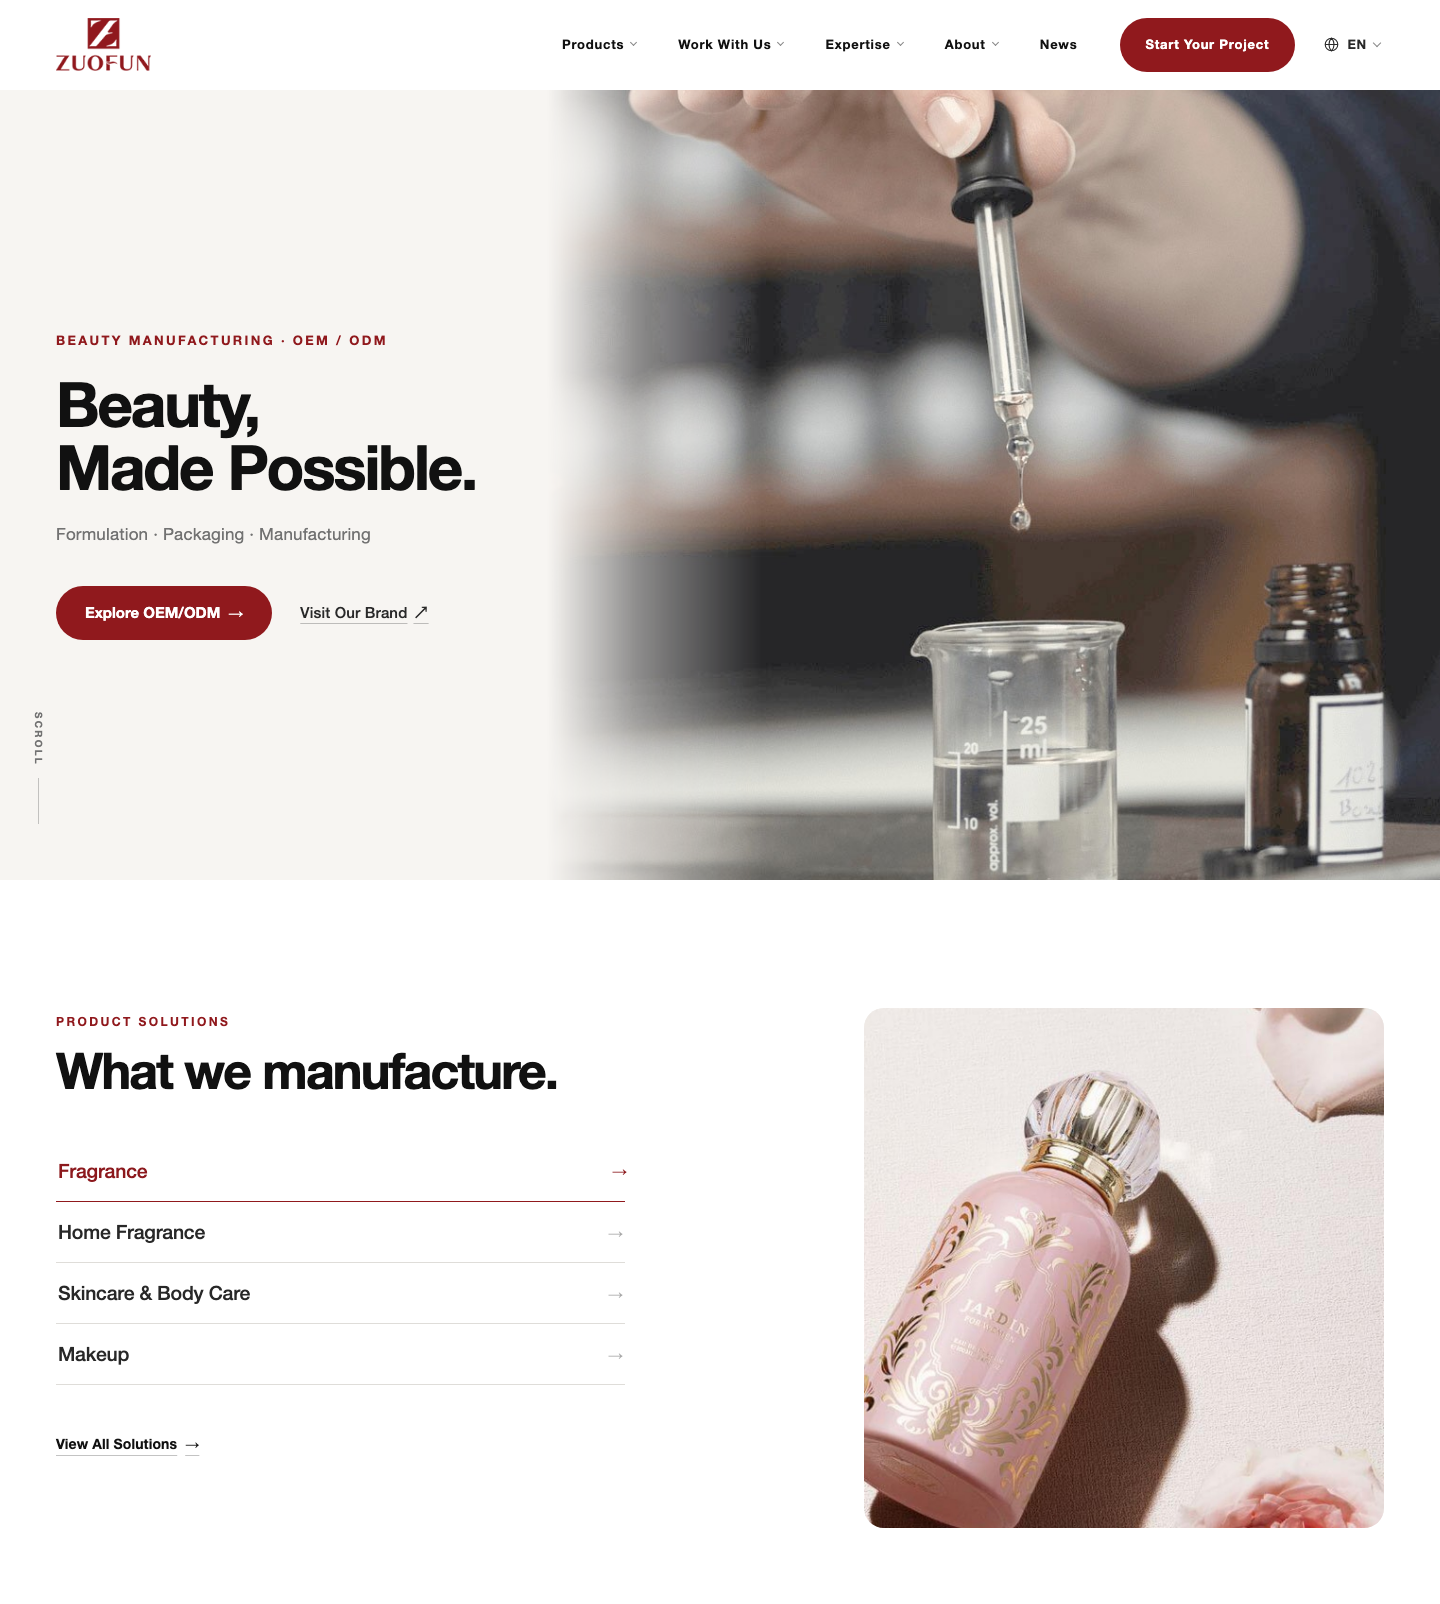
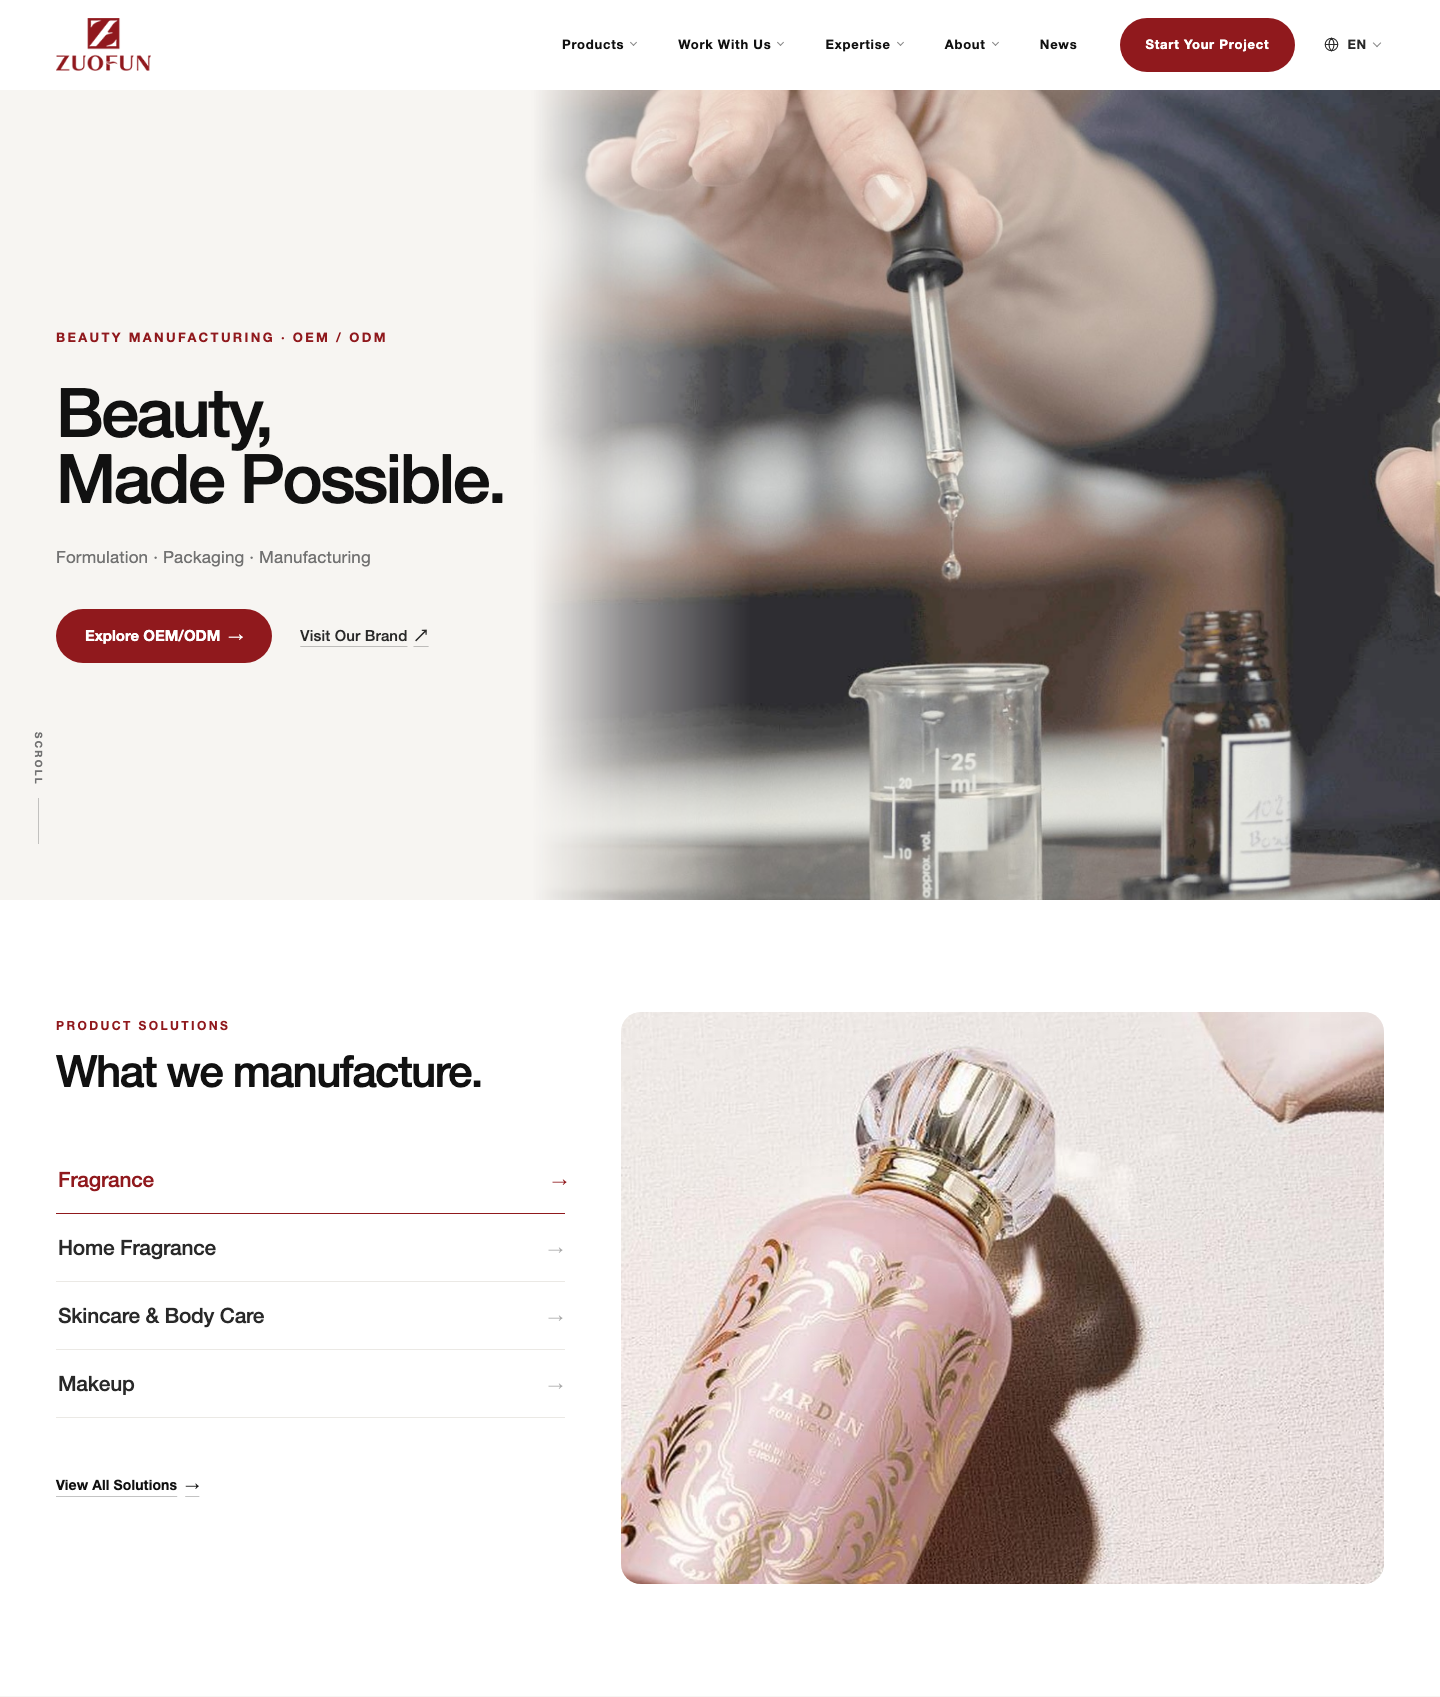
Rebalance the two-screen proportions toward the reference direction.
The Hero now fills the viewport below the header instead of overlapping it
behind a negative margin, which also removes the padding that compensated for
it. The image column widens to 63% and the crop anchors so the dropper sits
around 65% of the page rather than on the centre axis, leaving the left column
as quiet negative space. The headline drops from 700 to 500 weight and the
copy block gains vertical air between each step.

Product Solutions moves from a capped square to a full-width 4:3 stage so the
image, not the list, carries the section. Each category gets its own
object-position because the sources are square and the frame is not.

The hero photograph is regraded from the untouched original rather than
stacked on the previous pass, so the shadows open up without compounding.

Interaction logic, sticky behaviour and the mobile layout are untouched.

diff --git a/home-preview/assets/css/style.css b/home-preview/assets/css/style.css
@@ -411,12 +411,10 @@ h1, h2, h3, .serif {
   position: relative;
   z-index: 1;
   display: grid;
-  grid-template-columns: minmax(0, 44fr) minmax(0, 56fr);
+  grid-template-columns: minmax(0, 37fr) minmax(0, 63fr);
   align-items: center;
   width: 100%;
-  min-height: min(92svh, 880px);
-  margin-top: calc(var(--header-h) * -1);
-  padding-top: var(--header-h);
+  min-height: calc(100vh - var(--header-h));
   background: var(--warm);
   overflow: hidden;
   font-family: "Helvetica Neue", Helvetica, Arial, sans-serif;
@@ -427,7 +425,7 @@ h1, h2, h3, .serif {
   top: -70px;
   bottom: -70px;
   right: 0;
-  left: 38%;
+  left: 37%;
   pointer-events: none;
   will-change: transform;
 }
@@ -437,7 +435,8 @@ h1, h2, h3, .serif {
   height: 100%;
   max-width: none;
   object-fit: cover;
-  object-position: 32% 48%;
+  /* Anchored left so the dropper lands right of the page axis, not on it */
+  object-position: 38% 58%;
   /* Soft feather instead of a hard column edge — no white fog over the photo */
   -webkit-mask-image: linear-gradient(90deg, transparent 0, rgba(0, 0, 0, .5) 10%, #000 24%);
   mask-image: linear-gradient(90deg, transparent 0, rgba(0, 0, 0, .5) 10%, #000 24%);
@@ -451,21 +450,21 @@ h1, h2, h3, .serif {
   grid-column: 1;
   display: flex;
   flex-direction: column;
-  padding: 40px 32px 40px max(var(--page-pad), calc((100vw - var(--max)) / 2));
+  padding: 48px 32px 48px max(var(--page-pad), calc((100vw - var(--max)) / 2));
 }
 .hero .eyebrow {
-  margin-bottom: 20px;
+  margin-bottom: 30px;
   color: var(--brand-red);
   font-size: 13px;
   font-weight: 700;
   letter-spacing: .18em;
 }
 .hero h1 {
-  margin: 0 0 24px;
+  margin: 0 0 34px;
   font-family: "Helvetica Neue", Helvetica, Arial, sans-serif;
-  font-weight: 700;
-  font-size: clamp(44px, 4.3vw, 62px);
-  line-height: 1.02;
+  font-weight: 500;
+  font-size: clamp(52px, 4.7vw, 70px);
+  line-height: .98;
   letter-spacing: -.035em;
   white-space: nowrap;
   color: var(--black);
@@ -591,27 +590,30 @@ h1, h2, h3, .serif {
 
 /* Product Solutions — category list drives one shared visual */
 .solutions {
-  padding: 128px 0;
+  padding: 112px 0;
   background: var(--white);
   font-family: "Helvetica Neue", Helvetica, Arial, sans-serif;
 }
 .solutions-layout {
   display: grid;
-  grid-template-columns: minmax(0, 45fr) minmax(0, 55fr);
-  gap: 64px;
+  grid-template-columns: minmax(0, 40fr) minmax(0, 60fr);
+  gap: 56px;
   align-items: start;
 }
-.solutions-copy { padding-top: 4px; }
+.solutions-copy {
+  max-width: 510px;
+  padding-top: 4px;
+}
 .solutions .eyebrow {
   font-size: 12px;
   font-weight: 700;
   letter-spacing: .2em;
 }
 .solutions h2 {
-  margin: 0 0 44px;
+  margin: 0 0 52px;
   font-family: "Helvetica Neue", Helvetica, Arial, sans-serif;
-  font-size: clamp(38px, 3.6vw, 50px);
-  font-weight: 600;
+  font-size: clamp(36px, 3.2vw, 44px);
+  font-weight: 500;
   line-height: 1.06;
   letter-spacing: -.035em;
 }
@@ -625,12 +627,12 @@ h1, h2, h3, .serif {
   align-items: center;
   justify-content: space-between;
   gap: 20px;
-  min-height: 56px;
-  padding: 14px 2px;
-  border-bottom: 1px solid var(--line);
+  min-height: 68px;
+  padding: 16px 2px;
+  border-bottom: 1px solid #ebe9e5;
   color: var(--dark);
   text-decoration: none;
-  font-size: clamp(17px, 1.35vw, 20px);
+  font-size: clamp(18px, 1.45vw, 21px);
   font-weight: 500;
   letter-spacing: -.01em;
   transition: color .35s var(--ease), border-color .35s var(--ease);
@@ -658,7 +660,7 @@ h1, h2, h3, .serif {
   align-items: center;
   gap: 8px;
   min-height: 44px;
-  margin-top: 36px;
+  margin-top: 44px;
   color: var(--black);
   font-size: 14px;
   font-weight: 600;
@@ -685,9 +687,8 @@ h1, h2, h3, .serif {
 }
 .solution-stage {
   position: relative;
-  aspect-ratio: 1 / 1;
-  max-width: 520px;
-  margin-left: auto;
+  width: 100%;
+  aspect-ratio: 4 / 3;
   overflow: hidden;
   border-radius: 20px;
   background: var(--warm);
@@ -702,6 +703,11 @@ h1, h2, h3, .serif {
   transform: scale(1.02);
   transition: opacity .45s var(--ease), transform .45s var(--ease);
 }
+/* Square sources in a 4:3 frame — each crop is anchored on its own subject */
+.solution-image[data-solution="fragrance"] { object-position: 50% 30%; }
+.solution-image[data-solution="home"] { object-position: 50% 8%; }
+.solution-image[data-solution="skincare"] { object-position: 42% 44%; }
+.solution-image[data-solution="makeup"] { object-position: 50% 52%; }
 .solution-image.is-active {
   opacity: 1;
   transform: scale(1);
@@ -1155,8 +1161,8 @@ h1, h2, h3, .serif {
   .hero { grid-template-columns: minmax(0, 47fr) minmax(0, 53fr); }
   .hero-copy { padding: 32px 24px 32px max(32px, calc((100vw - var(--max)) / 2)); }
   .hero h1 { font-size: clamp(46px, 5.6vw, 58px); }
-  .hero-visual { left: 44%; }
-  .hero-photo { object-position: 44% 46%; }
+  .hero-visual { left: 43%; }
+  .hero-photo { object-position: 38% 56%; }
   .hero-scroll { left: 12px; bottom: 32px; }
   .section { padding: 96px 0; }
   .section-head h2 { font-size: clamp(36px, 4vw, 48px); }
@@ -1288,7 +1294,7 @@ h1, h2, h3, .serif {
     width: min(var(--max), calc(100% - 32px));
     margin: 0 auto;
     order: 1;
-    padding: calc(var(--header-h) + 28px) 0 28px;
+    padding: 36px 0 28px;
   }
   .hero h1 {
     font-size: clamp(40px, 9.5vw, 48px);

diff --git a/home-preview/index.html b/home-preview/index.html
@@ -8,7 +8,7 @@
   <link rel="preconnect" href="https://fonts.googleapis.com" />
   <link rel="preconnect" href="https://fonts.gstatic.com" crossorigin />
   <link href="https://fonts.googleapis.com/css2?family=Inter:wght@400;500;600;700&family=Playfair+Display:ital,wght@0,500;0,600;1,500&display=swap" rel="stylesheet" />
-  <link rel="stylesheet" href="assets/css/style.css?v=hero-solutions-1" />
+  <link rel="stylesheet" href="assets/css/style.css?v=hero-solutions-2" />
   <!-- Schema is a preview example only. Replace with live Rank Math data before launch. Do not use NewsArticle on the homepage. -->
   <script type="application/ld+json">
   {
